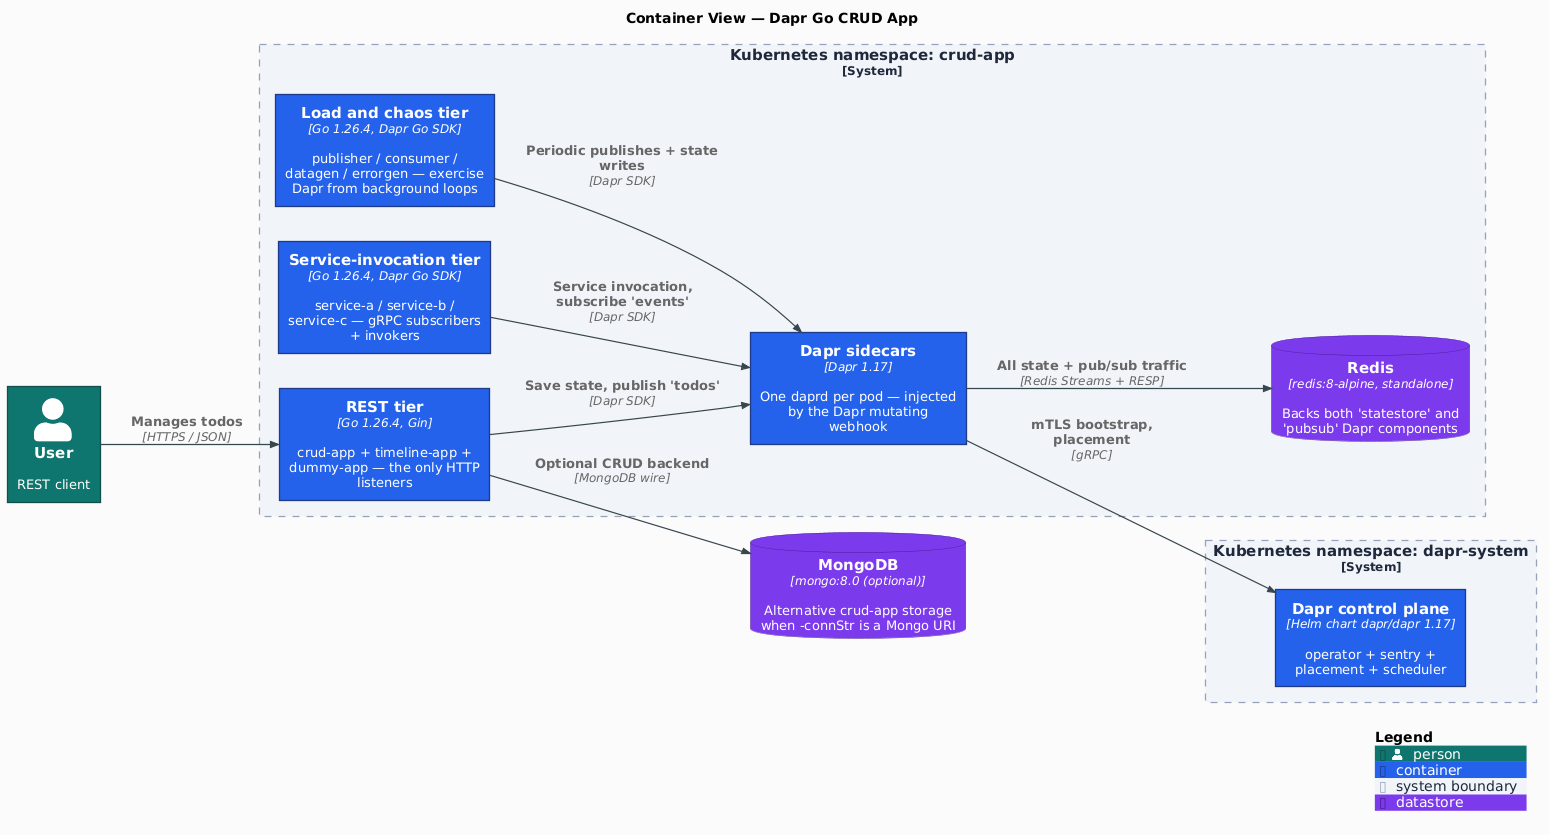
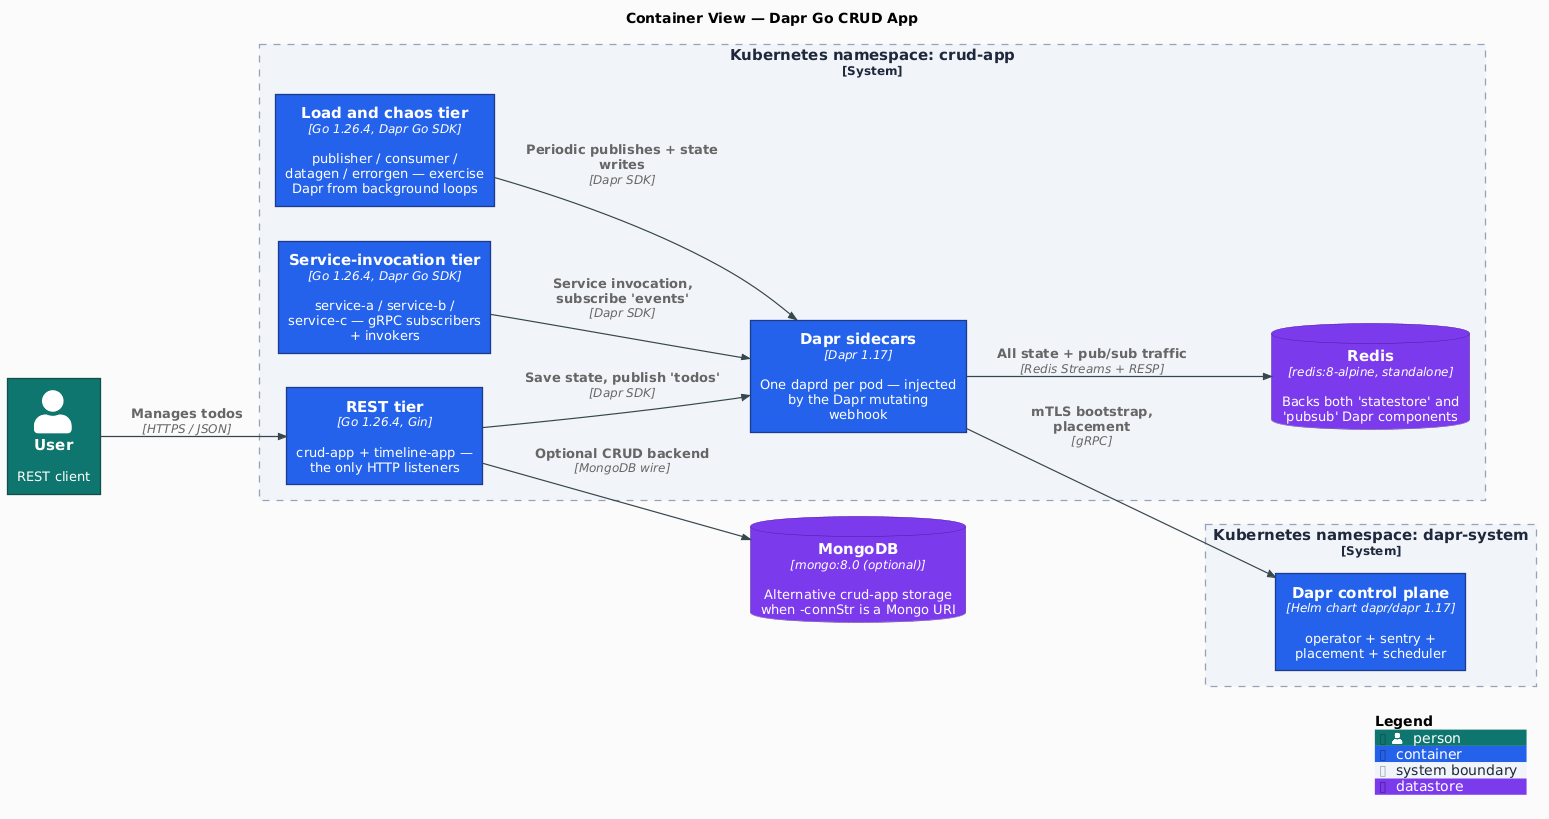
fix: close /project-review findings (CI gate-leak, run target, automerge race, diagram staleness)
Foundation:
- ci.yml: prefix the 5 heavy jobs' explicit `if:` with `!failure() &&
  !cancelled()`. A bare explicit `if:` strips GitHub's implicit
  "all needs succeeded" gate, so a failed static-check didn't stop
  build/test/integration-test and a failed build/test didn't stop e2e
  (jobs ran against broken state; ci-pass still gated merge). Also
  rename the "Compute lowercase KO_DOCKER_REPO" step (drop env token).
- renovate.json: platformAutomerge false. main's Ruleset requires the
  ci-pass check; native auto-merge could complete in the ~1s window
  before ci-pass registers and land a red bump. Renovate now merges via
  its own run after re-confirming green.
- Makefile: fix broken `make run` (`./cmd/app.go` -> `./cmd/app`; the
  package is the dir) + add a check-ports guard; add `KUBECTL ?= kubectl`
  and use `$(KUBECTL)` in the manual cluster recipes (rollout, app-logs,
  zipkin-deploy, redis-deploy, apply) so an operator can pin a context
  (the kind-scoped e2e flow keeps KUBECTL_E2E).

Diagrams:
- c4-deployment.puml: "x 10 Deployments" -> "x 9" and drop `dummy` from
  the deployed app-container list; c4-container.puml: drop `dummy-app`
  from the REST tier inside the "namespace: crud-app" boundary. `dummy`
  ships no k8s manifest (deploy/ has 9 app manifests; e2e skips
  dummy-*.yaml) though it IS a built HTTP server. PNGs regenerated.

Docs:
- README: c4-deployment embed width 800 -> 640 (was ~601px tall);
[…]

diff --git a/CLAUDE.md b/CLAUDE.md
@@ -110,7 +110,7 @@ Jobs (with explicit dependency edges):
 4. **`build`** — `needs: [changes, static-check]`. Runs `make build`, uploads `.bin/` artifacts.
 5. **`test`** — `needs: [changes, static-check]`. Runs `make test` (unit).
 6. **`integration-test`** — `needs: [changes, static-check]`. Runs `make integration-test` (Testcontainers Mongo + httptest).
-7. **`e2e`** — `needs: [changes, build, test]`. Provisions KinD via `helm/kind-action`, installs Dapr via Helm, applies `deploy/redis.yaml` (upstream `redis:8-alpine` standalone — no Helm chart), ko-builds + `kind load`s the images (`make e2e-load-images`), applies the app manifests, runs `make e2e-smoke`. Diagnostic dump on failure.
+7. **`e2e`** — `needs: [changes, build, test]`. Provisions KinD via `helm/kind-action`, installs Dapr via Helm, applies `deploy/redis.yaml` (`redis:8-alpine` standalone via the `public.ecr.aws/docker/library` mirror — no Helm chart), ko-builds + `kind load`s the images (`make e2e-load-images`), applies the app manifests, runs `make e2e-smoke`. Diagnostic dump on failure.
 8. **`docker`** — `needs: [static-check, build, test, integration-test, e2e]`, `if: startsWith(github.ref, 'refs/tags/')`, `strategy.matrix.binary` across all 10 cmds. Per /harden-image-pipeline Pattern A: ko build local → Trivy image scan → smoke test → ko publish multi-arch to GHCR → cosign keyless OIDC signing by digest. `provenance: false`/`sbom: false` (default — keeps the image index free of `unknown/unknown` entries so GHCR "OS / Arch" tab renders). Permissions: `contents: read`, `packages: write`, `id-token: write` (all job-scoped).
 9. **`ci-pass`** — `needs: [changes, mermaid-lint, static-check, build, test, integration-test, e2e, docker]`, `if: always()`. Aggregator that fails if any required job failed/cancelled. Jobs `skipped` on doc-only / non-tag pushes are treated as non-failure. Single status check to require in branch protection.
 
@@ -145,11 +145,16 @@ Toolchain bumps (Makefile + `.mise.toml`) are grouped into a single PR; Dapr SDK
 Deferred items (with the trigger/rationale for each) — not open bugs; each was
 consciously held out of an automated apply. Prune an item when its work lands.
 
-- **helm 3.20 → 4.x** — a MAJOR upstream bump is available (`.mise.toml` pins 3.20.2). Deferred: Helm 4 has breaking chart-API / CLI changes; the `dapr-install`/`e2e` path uses `helm`, so this needs a manual migration review, not a drop-in.
-- **dapr/cli 1.17.1 → 1.18.0** (`.mise.toml`) — a Dapr **runtime** bump. Deferred because it must land as a coordinated change: align `DAPR_HELM_VERSION` (Makefile) to match, and update the C4 diagram tech-strings + prose that say "Dapr 1.17". Not a version-only drop-in.
-- **aquasecurity/trivy-action v0.9.2 → v0.36.0** (`ci.yml`, `docker` job) — a 27-major bump. Deferred: the `docker` job is tag-gated, so the change can't be validated without cutting a tag; verify a scan still passes on the next release tag before/after bumping.
-- **Makefile `release` target** creates no GitHub Release object and `git push`es a version-bump commit to `main`, which the repo Ruleset blocks — so `make release` can't complete as-is. Follow-up: add `gh release create --generate-notes` + a PR-based version-bump flow.
+- **helm 3.20 → 4.x** — a MAJOR upstream bump is available (helm is pinned in `.mise.toml`). Deferred: Helm 4 has breaking chart-API / CLI changes; the `dapr-install`/`e2e` path uses `helm`, so this needs a manual migration review, not a drop-in.
+- **dapr/cli 1.17 → 1.18** (`.mise.toml`) — a Dapr **runtime** bump. Deferred because it must land as a coordinated change: align `DAPR_HELM_VERSION` (Makefile) to match, and update the C4 diagram tech-strings + prose that say "Dapr 1.17". Not a version-only drop-in.
+- **aquasecurity/trivy-action** (`ci.yml`, `docker` job) is many majors behind latest — a large bump. Deferred: the `docker` job is tag-gated, so the change can't be validated without cutting a tag; verify a scan still passes on the next release tag before/after bumping.
 - **`/test-coverage-analysis` findings** — `scripts/e2e-smoke.sh` hardcodes local port-forward aliases `18080`/`18081` (should be kernel-ephemeral for parallel-run safety — HIGH); the `events` fan-out assertion is masked (passes if *either* subscriber sees the event, `service-c=0` downgraded to WARN, while `service-c` now carries the grpc annotation — MEDIUM). Run `/test-coverage-analysis` to apply.
+
+## Known Limitations
+
+Self-owned constraints (not upstream-blocked — the fix is ours to make when it's worth it):
+
+- **`make release` cannot complete as-is** — it creates no GitHub Release object and `git push`es a version-bump commit to `main`, which the repo Ruleset blocks. Follow-up: add `gh release create --generate-notes` + a PR-based version-bump flow.
 
 ## Skills
 

diff --git a/README.md b/README.md
@@ -73,12 +73,12 @@ Key facts:
 
 - **One Redis instance carries both Dapr components.** The `pubsub.redis` and `state.redis` components in `.dapr/components/` point at the same `redis-master.crud-app:6379` Service — the `subscriptionScopes` and `publishingScopes` metadata fields on the pubsub component are what make the topic routing work without separate brokers.
 - **All app traffic goes through the daprd sidecar.** The apps never speak to Redis directly; they call `client.SaveState(...)` / `client.PublishEvent(...)` / `client.InvokeMethod(...)` against `localhost:50001` (the in-pod sidecar's gRPC port), and the sidecar talks to Redis on their behalf. That's the pattern the Dapr control plane (`dapr-system`) is bootstrapping.
-- **Redis is `redis:8-alpine` standalone**, not a Helm chart. ~30 MB image, ephemeral storage (`emptyDir` for `/data`), password-protected via a Secret generated at deploy-time. Replaces an earlier `bitnami/redis` chart dependency.
+- **Redis is `redis:8-alpine` standalone**, not a Helm chart — pulled via the `public.ecr.aws/docker/library/redis` mirror (same upstream image, avoids Docker Hub rate limits). ~30 MB image, ephemeral storage (`emptyDir` for `/data`), password-protected via a Secret generated at deploy-time. Replaces an earlier `bitnami/redis` chart dependency.
 - **MongoDB is optional**, used only when `crud-app` is launched with `-connStr=mongodb://...`. The default `-connStr=dapr` path goes through Redis via the Dapr state store.
 
 ### Deployment topology
 
-<img src="docs/diagrams/out/c4-deployment.png" alt="C4 Deployment — Kubernetes" width="800">
+<img src="docs/diagrams/out/c4-deployment.png" alt="C4 Deployment — Kubernetes" width="640">
 
 - **daprd is injected, not declared.** Each app Deployment carries `dapr.io/enabled: "true"`; the Dapr sidecar-injector mutating webhook in `dapr-system` adds a `daprd` container to the pod at admission. The app and its sidecar share the pod network, so the app reaches Dapr on `localhost:3500` (HTTP) / `:50001` (gRPC) — standard sidecar injection, not shared/ambient.
 - **Redis is a separate Deployment**, reached in-cluster at `redis-master.crud-app:6379` via a ClusterIP Service. Every app's sidecar (not the app) talks to it.
@@ -275,6 +275,7 @@ Run `make help` to see all targets. They are grouped here for reference.
 | `make static-check` | Composite gate: `check-go-alignment` + `check-env` + `format-check` + `lint` + `lint-ci` + `shellcheck` + `sec` + `vulncheck` + `secrets` + `trivy-fs` + `trivy-config` + `mermaid-lint` + `diagrams-check` |
 | `make check-go-alignment` | Fail if the Go version disagrees between `go.mod` and `.mise.toml` (first `static-check` gate) |
 | `make check-env` | STOPPER gate — fail if the committed `.env.example` source-of-truth is missing |
+| `make check-ports` | Preflight — fail early if a fixed host port a run/deploy target binds is already in use (naming the holder); guards `run`/`mongo-run`/`dapr-run` |
 | `make format` | `gofmt -w .` (mutates tree) |
 | `make format-check` | Verify tree is gofmt-clean (CI gate) |
 | `make lint` | golangci-lint (gocritic enabled via `.golangci.yml`) |
@@ -356,7 +357,7 @@ Runs on every push to `main`, on `v*` tags, on pull requests, and via `workflow_
 |-----|------------------|-------|
 | `changes` | All triggers | `dorny/paths-filter` positive allow-list for `code` + a `docs` output (`README.md`). Doc-only changes (README/LICENSE/docs/PNGs) skip the heavy jobs |
 | `mermaid-lint` | `needs: [changes]`, only on doc-only changes (`code=false`, `docs=true`) | `make mermaid-lint` — validates the README's Mermaid diagram when `static-check` is skipped |
-| `static-check` | `needs: [changes]`, only if `code` changed | `make static-check` (composite gate) |
+| `static-check` | `needs: [changes]`, if `code` changed or on `v*` tags | `make static-check` (composite gate) |
 | `build` | `needs: [changes, static-check]` | `make build` + upload `.bin/` artifacts |
 | `test` | `needs: [changes, static-check]` | `make test` (unit) |
 | `integration-test` | `needs: [changes, static-check]` | `make integration-test` (Testcontainers) |
